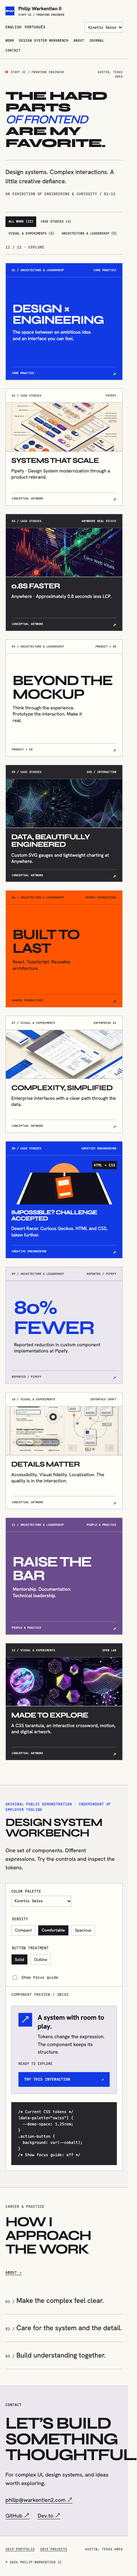
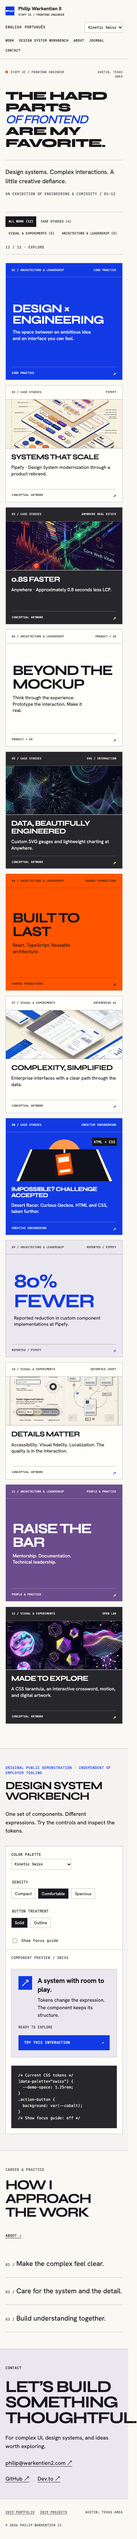
Keep mobile gallery spacing independent of palette

Changed region(s): [[0.0299, 0.0, 0.8978, 0.9993], [0.6883, 0.8744, 0.7481, 0.9056]]

diff --git a/tests/browser/portfolio.spec.ts b/tests/browser/portfolio.spec.ts
@@ -164,8 +164,17 @@ test(
     await page.goto("/2026/en/");
     await page.evaluate(() => document.fonts.ready);
     const first = page.locator('[data-tile="identity"]');
-    const baseline = await first.evaluate(
-      (element) => element.getBoundingClientRect().width,
+    // Document coordinates also catch vertical shifts when a palette changes gaps.
+    const geometry = () =>
+      page.locator("[data-tile], #workbench").evaluateAll((elements) =>
+        elements.map((element) => {
+          const { x, y, width, height } = element.getBoundingClientRect();
+          return { x: x + scrollX, y: y + scrollY, width, height };
+        }),
+      );
+    const baseline = await geometry();
+    const baselineGap = await page.locator(".tile-grid").evaluate(
+      (element) => getComputedStyle(element).gap,
     );
     const backgrounds: string[] = [];
     for (const palette of ["swiss", "paper", "cobalt", "night"]) {
@@ -174,11 +183,8 @@ test(
         "data-palette",
         palette,
       );
-      expect(
-        await first.evaluate(
-          (element) => element.getBoundingClientRect().width,
-        ),
-      ).toBe(baseline);
+      expect(await geometry()).toEqual(baseline);
+      await expect(page.locator(".tile-grid")).toHaveCSS("gap", baselineGap);
       backgrounds.push(
         await first.evaluate(
           (element) => getComputedStyle(element).backgroundColor,
@@ -191,6 +197,13 @@ test(
             .analyze()
         ).violations,
       ).toEqual([]);
+      if (process.env.PORTFOLIO_EVIDENCE_MODE === "ux") {
+        await first.scrollIntoViewIfNeeded();
+        await testInfo.attach(`${palette} palette gallery spacing`, {
+          body: await page.screenshot({ animations: "disabled" }),
+          contentType: "image/png",
+        });
+      }
     }
     expect(new Set(backgrounds).size).toBe(4);
     await page.reload();

diff --git a/apps/web/src/app/tokens.css b/apps/web/src/app/tokens.css
@@ -40,6 +40,9 @@
   --on-mist: #17171c;
   --acid: #e3ff6b;
   --link: var(--cobalt);
+}
+/* Layout and typography inherit independently of the selected color palette. */
+:root {
   --font-display: Syne, Arial, sans-serif;
   --font-body: "Hanken Grotesk", Arial, sans-serif;
   --font-mono: "JetBrains Mono", monospace;

diff --git a/docs/review/kinetic-portfolio/verification.md b/docs/review/kinetic-portfolio/verification.md
@@ -17,6 +17,14 @@ The application is implemented in the existing Next.js app, under `/2026/`. The 
 
 The paired homepage captures use the same route, state, and viewports (1440 × 900 and 375 × 812). The original baseline was captured before implementation at base commit `f2ade15`; the final UI and journey captures render implementation commit `22ce9ea`. Manifests retain the actual dirty-tree flag and source commit. Local raw reports, recordings, and traces are in ignored `artifacts/evidence/kinetic-portfolio-delivery/` and `kinetic-portfolio-delivery-story/`. The PR links reviewer-accessible CI artifacts for the final journeys.
 
+## Review follow-up: palette-independent spacing
+
+The review identified a mobile cascade issue: Swiss redeclared `--grid-gap` on its wrapper and shadowed the root's narrow-screen override. Layout and typography tokens now live only on `:root`, independently of palette colors. At 375px, every palette uses the same 0.9rem gap; switching palettes no longer shifts later tiles or the workbench by approximately 106px.
+
+The strengthened regression failed against the pre-fix export, then passed on desktop and mobile. It checks every tile's document position and dimensions, the workbench position and dimensions, and the gallery gap across all four palettes, alongside the existing color, persistence, control, and axe assertions.
+
+Fresh paired captures at `/2026/en/` use 1440 × 900 and 375 × 812. [Mobile before this fix](palette-before-mobile.png) and [updated mobile homepage](after-mobile.png) show the corrected Swiss spacing. Desktop before/after PNGs are byte-identical. The mobile image above is refreshed; other images retain their original capture provenance. Raw comparison reports are in `artifacts/evidence/palette-review/`; both palette-switching recordings, state images, and traces passed in `artifacts/evidence/palette-review-story/`. These ignored paths are local; the PR links downloadable CI evidence.
+
 ## Comparison with the design reference
 
 The supplied reference screens are preserved here for review only. Their fictional text and measurements are **not evidence of professional accomplishments**.

diff --git a/docs/portfolio-ui.md b/docs/portfolio-ui.md
@@ -6,6 +6,8 @@ Everything shipped under `/2026/` is ordinary Next.js, React, TypeScript, and CS
 
 `apps/web/src/app/tokens.css` owns colors, font families, spacing, borders, geometry, hard shadows, motion, page width, and grid gaps. Fonts are self-hosted in `apps/web/public/fonts/`; `licenses.txt` contains their SIL Open Font Licenses.
 
+Keep layout and typography tokens on `:root`, separate from palette selectors. Responsive overrides in `styles/responsive.css` then apply to every palette without being shadowed by a palette wrapper.
+
 Four palettes (`swiss`, `paper`, `cobalt`, `night`) set the same semantic color variables. The default is Kinetic Swiss. To add another, add its ID to `palettes` in `content/portfolio.ts`, its localized label to `content/interface.ts`, and its token overrides in `tokens.css`. Each background needs its paired foreground. `--link` is separate from the cobalt surface color so text remains legible on dark themes.
 
 `components/Preferences.tsx` controls the palette on `.portfolio-app[data-palette]`. Selection persists in localStorage when available; storage is optional. No theme changes the card layout or order.
